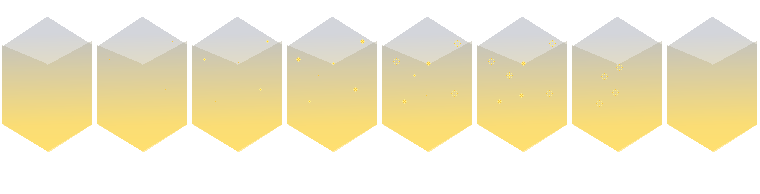
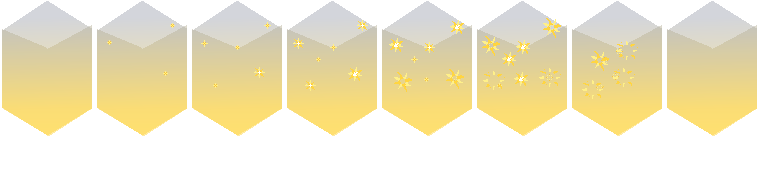
fix(): zoom on auras

diff --git a/src/gui/src/render/scenes/world/World.cpp b/src/gui/src/render/scenes/world/World.cpp
@@ -180,6 +180,7 @@ void World::update(float fElapsedTime)
         _sprites["aura"]->update(_core->getDeltaTime());
     updateTrantorians();
     updateChuncks();
+    updateIncantation();
     _rankTime += _core->getDeltaTime();
     if (_rankTime > 10)
         Ranking::getRanking(_rankings, _core->_data);
@@ -258,9 +259,10 @@ void World::layer2(int i, int j)
             isThereTrantorian = true;
             if (trantorian.getTile().x == i && trantorian.getTile().y == j) {
                 if (_worldUi.getPanelState() == WorldUi::panelState::FLAG) {
-                    _sprites["aura"]->_sprite.setPosition(trantorian.getPos());
-                    _sprites["aura"]->setColor(_teamsColor[_worldUi._idTeam]);
                     if (trantorian._team == _teams[_worldUi._idTeam]) {
+                        _sprites["aura"]->_sprite.setPosition(trantorian.getPos());
+                        _sprites["aura"]->setColor(_teamsColor[_worldUi._idTeam]);
+                        _sprites["aura"]->setScale(_zoom);
                         window.draw(_sprites["aura"]->_sprite);
                     }
                 }
@@ -268,6 +270,8 @@ void World::layer2(int i, int j)
                     if (index == _worldUi._idPlayer) {
                         _sprites["aura"]->_sprite.setPosition(trantorian.getPos());
                         _sprites["aura"]->setColor(_teamsColor[trantorian._teamIndex]);
+                        _sprites["aura"]->setScale(_zoom);
+
                         window.draw(_sprites["aura"]->_sprite);
                     }
                 }
@@ -283,7 +287,13 @@ void World::layer2(int i, int j)
     }
     if (!isThereTrantorian)
         _chuncks[i][j].draw(window);
-    if (_selectedTile.x == i && _selectedTile.y == j) {
+    bool incantation = false;
+    for (auto &lvlUpAnim : _lvlUpAnims)
+        if (lvlUpAnim.getTile().x == i && lvlUpAnim.getTile().y == j) {
+            lvlUpAnim.draw(window);
+            incantation = true;
+        }
+    if (!incantation && _selectedTile.x == i && _selectedTile.y == j) {
         _sprites["halo1"]->_sprite.setPosition(
             _chuncks[i][j]._pos.x,
             _chuncks[i][j]._pos.y + _chuncks[i][j]._yOffset - TILE_SIZE_Y / 2
@@ -415,5 +425,31 @@ void World::updateChuncks()
                 if (trantorian.getTile().x == i && trantorian.getTile().y == j)
                     _chuncks[i][j]._nbTrantorians++;
         }
+    }
+}
+
+void World::updateIncantation()
+{
+    auto incantations = _core->_data.getIncantations();
+
+    if ((int)incantations.size() != _nbIncantations) {
+        _chat->addMessage("Incantation started");
+        auto incantation = incantations[incantations.size() - 1];
+        sf::Vector2f tile = sf::Vector2f(incantation->getPosition()[0], incantation->getPosition()[1]);
+        sf::Vector2f pos = _chuncks[tile.x][tile.y].getMiddle();
+        _lvlUpAnims.push_back(LvlUpAnim(incantations.size() - 1,
+            pos, tile,
+            incantation->getLvl()));
+        _nbIncantations = incantations.size();
+    }
+    for (auto &lvlUpAnim : _lvlUpAnims) {
+        int state = incantations[lvlUpAnim.getId()]->getStatus();
+        if (state == IncantationOutcome::SUCCESS)
+            lvlUpAnim.setSuccess();
+        if (state == IncantationOutcome::FAILURE)
+            lvlUpAnim.setFailure();
+        lvlUpAnim.update(_core->getDeltaTime());
+        if (lvlUpAnim.isFinished())
+            _lvlUpAnims.erase(_lvlUpAnims.begin());
     }
 }

diff --git a/src/gui/src/render/scenes/world/ui/LvlUpAnim.hpp b/src/gui/src/render/scenes/world/ui/LvlUpAnim.hpp
@@ -12,37 +12,57 @@
 
 class LvlUpAnim {
     public:
-        LvlUpAnim(int id, sf::Vector2f pos)
-            : _id(id), _pos(pos), _sprite(Sprite("./assets/lvlup.png", 8, 0.1f))
+        LvlUpAnim(int id, sf::Vector2f pos, sf::Vector2f tile, int lvl)
+            : _id(id), _pos(pos), _tile(tile), _lvl(lvl)
         {
-            _sprite.setPosition(_pos);
+            _lvlup = std::make_shared<Sprite>("./assets/lvlup.png", 8, 0.1f);
+            _lvlup->setPosition(_pos);
         }
         ~LvlUpAnim() {}
 
         enum class LvlUpAnimState {
             START,
             FINISHING,
+            FAILURE
         };
 
         void update(float fElapsedTime) {
             if (_state == LvlUpAnimState::FINISHING)
-                _sprite.update(fElapsedTime);
+                _lvlup->update(fElapsedTime);
         }
 
         void draw(sf::RenderWindow &window) {
-            _sprite.draw(window);
+            _lvlup->draw(window);
+        }
+
+        void setSuccess() {
+            _state = LvlUpAnimState::FINISHING;
+        }
+
+        void setFailure() {
+            _state = LvlUpAnimState::FAILURE;
         }
 
         bool isFinished() {
-            return _state == LvlUpAnimState::FINISHING && _sprite.isFinished();
+            return (_state == LvlUpAnimState::FINISHING && _lvlup->isFinished()) || _state == LvlUpAnimState::FAILURE;
+        }
+
+        int getId() {
+            return _id;
+        }
+
+        sf::Vector2f getTile() {
+            return _tile;
         }
 
     protected:
     private:
         int _id;
         sf::Vector2f _pos;
-        Sprite _sprite;
+        sf::Vector2f _tile;
+        std::shared_ptr<Sprite> _lvlup;
         LvlUpAnimState _state = LvlUpAnimState::START;
+        int _lvl;
 };
 
 #endif /* !LVLUPANIM_HPP_ */

diff --git a/src/gui/src/render/scenes/world/World.hpp b/src/gui/src/render/scenes/world/World.hpp
@@ -42,6 +42,7 @@ class World : public IScene {
         bool moveMap(sf::Event event);
         void updateTrantorians();
         void updateChuncks();
+        void updateIncantation();
         sf::Vector2f circularVector(sf::Vector2f tile);
 
         int getNbTrantorian() { return _trantorians.size(); }
@@ -93,7 +94,7 @@ class World : public IScene {
         Diamond _diamond;
         WorldUi _worldUi;
         float _rankTime = 0;
-        int _nbIncantation = 0;
+        int _nbIncantations = 0;
         std::vector<LvlUpAnim> _lvlUpAnims;
         std::vector<Starlings> _starlings;
 };

diff --git a/src/gui/src/render/sprites/Sprite.hpp b/src/gui/src/render/sprites/Sprite.hpp
@@ -37,6 +37,8 @@ class Sprite {
         void setFrame(int frame) {
             if (frame >= _frameCount)
                 _frame = 0;
+            else
+                _frame = frame;
             _sprite.setTextureRect(sf::IntRect(_frame * _frameSize.x, 0, _frameSize.x, _frameSize.y));
         }
         bool mouseOver(sf::RenderWindow &window) {

diff --git a/src/gui/src/render/scenes/world/ui/WorldUi.cpp b/src/gui/src/render/scenes/world/ui/WorldUi.cpp
@@ -58,7 +58,7 @@ bool WorldUi::update(sf::Event event, sf::RenderWindow &window)
     return false;
 }
 
-void WorldUi::update(float fElapsedTime)
+void WorldUi::update(float /*fElapsedTime*/)
 {
 }
 
